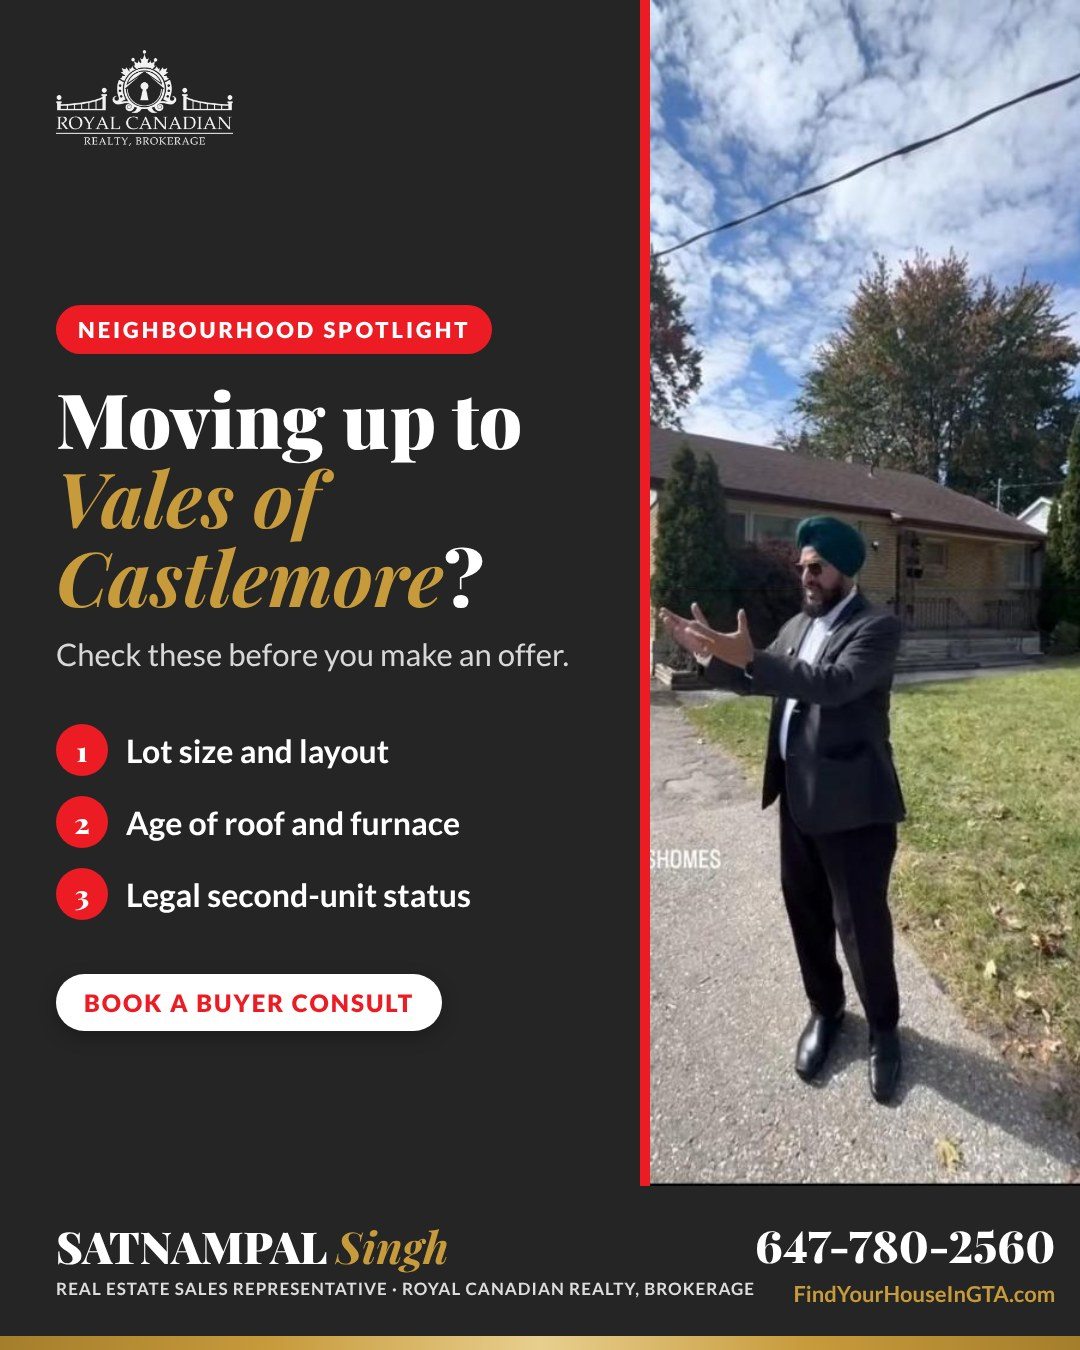
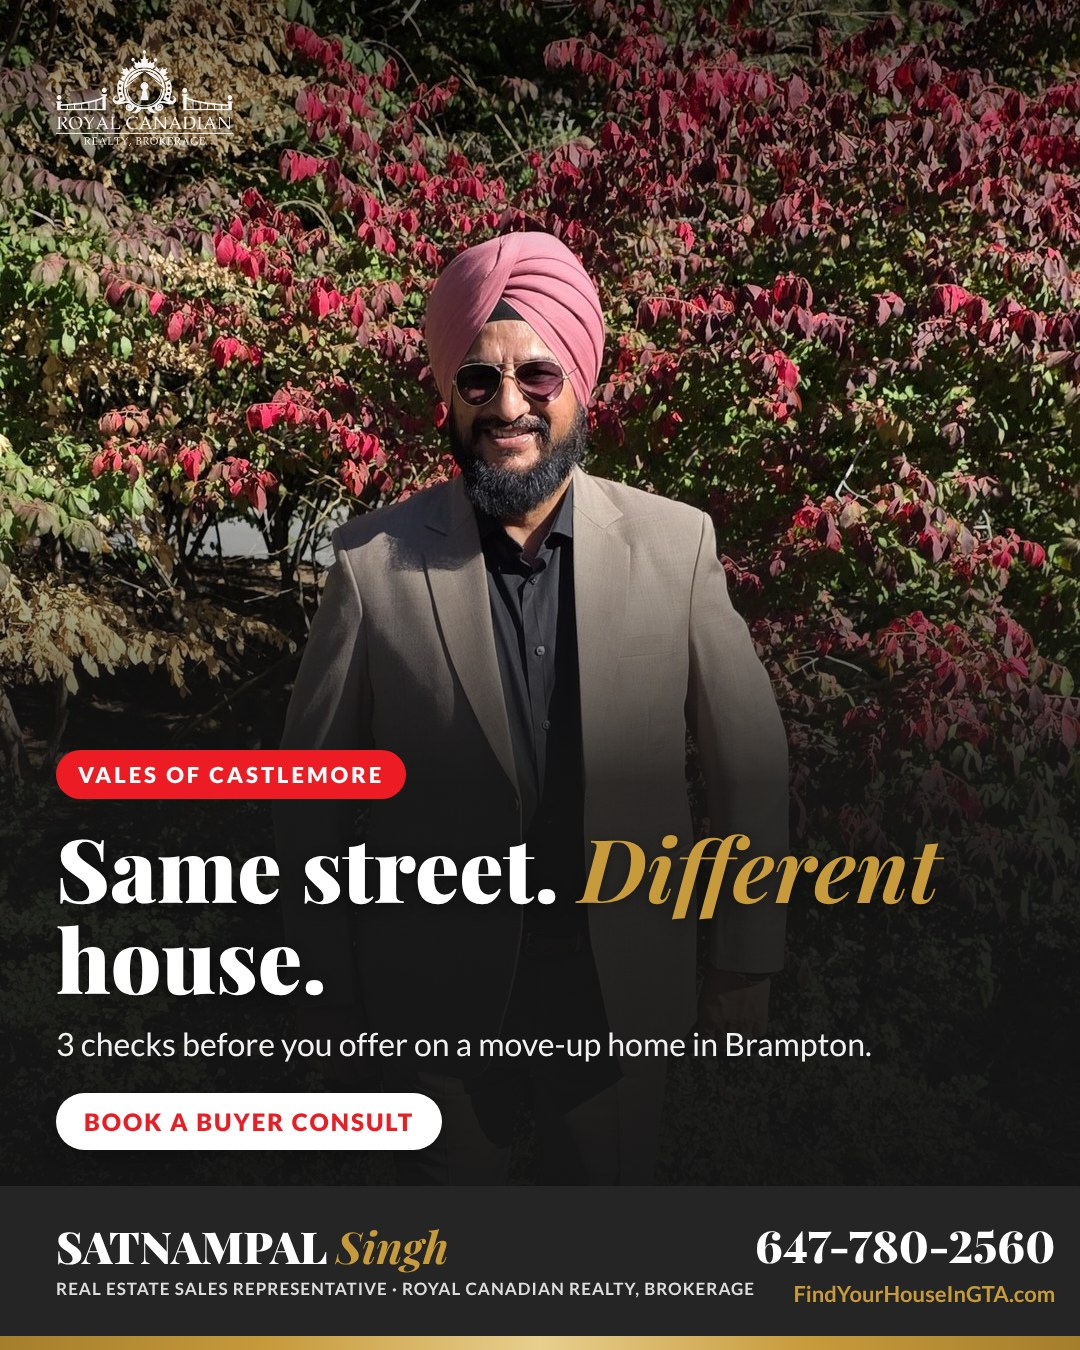
2026-11-06: swap to photo layout (autumn-suit-full) on request

diff --git a/posts/log.md b/posts/log.md
@@ -6,4 +6,4 @@ One line per post: date | theme | headline | GBP/FB/IG/TikTok status
 2026-11-03 | Brampton neighbourhood spotlight (Sandringham-Wellington) | Starter home in Sandringham? | https://www.findyourhouseingta.com/ | scheduled 12:00 (run started 11:49, after the 10:00 slot)
 2026-11-04 | GTA market update (TRREB October 2026) | Buyers have the edge (stats layout) | https://www.findyourhouseingta.com/blog.php | scheduled 10:00
 2026-11-05 | Mortgage education (Ontario land transfer tax + first-time buyer refund) | first-time buyers | The closing cost buyers forget | https://satnampalsingh-social-images.github.io/Social-Images/blog/ | layout:infographic (swapped from classic at 09:10 on request) | photo:luxury-home.jpg | feed + IG/FB story scheduled 10:00
-2026-11-06 | Neighbourhood Spotlight | move-up buyers / growing families | Moving up to Vales of Castlemore? | https://www.findyourhouseingta.com/blog.php | layout:split | photo:listing-gesture.jpg | area:Vales of Castlemore | feed + IG/FB story scheduled 10:00
+2026-11-06 | Neighbourhood Spotlight | move-up buyers / growing families | Same street. Different house. (Vales of Castlemore) | https://www.findyourhouseingta.com/blog.php | layout:photo (swapped from split at 08:55 on request) | photo:autumn-suit-full.jpg | area:Vales of Castlemore | feed + IG/FB story scheduled 10:00
